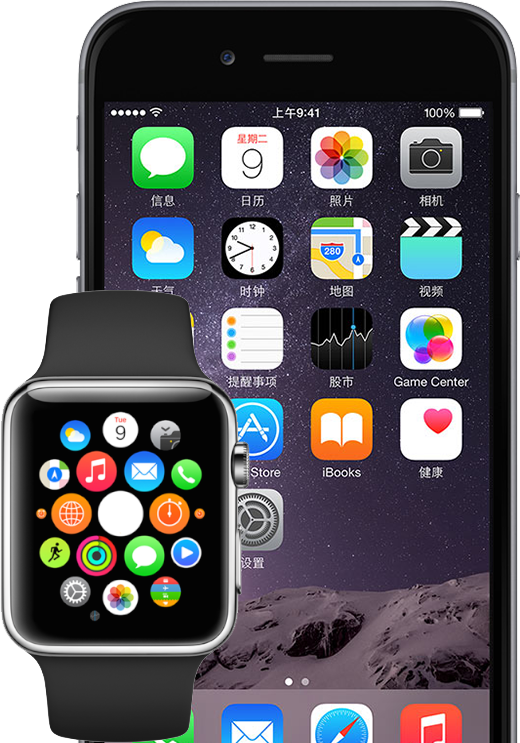
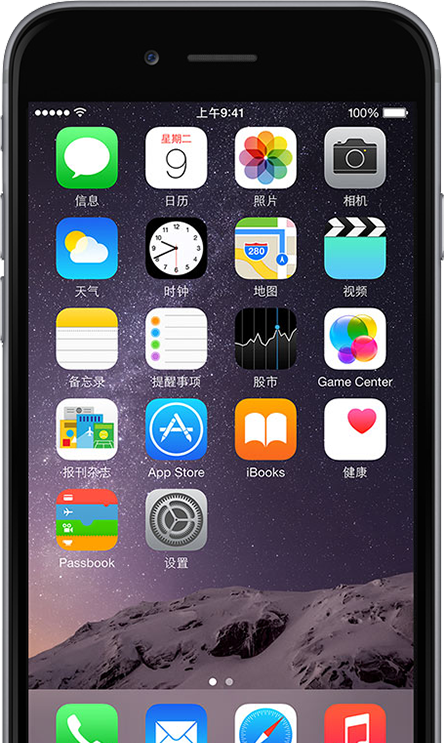
Adding the watchOS

diff --git a/public/css/main.less b/public/css/main.less
@@ -94,7 +94,6 @@ body {
     }
 }
 #tp_ios {
-    margin: 0 -30px;
     .icons-row .icon-row {
         vertical-align: middle;
         height: 56px;
@@ -131,6 +130,13 @@ body {
             -webkit-border-radius: 13px;
             -moz-border-radius: 13px;
             border-radius: 13px;
+        }
+        &.watch {
+            width: 45px;
+            height: 45px;
+            -webkit-border-radius: 22.5px;
+            -moz-border-radius: 22.5px;
+            border-radius: 22.5px;
         }
     }
 }

diff --git a/public/css/main.css b/public/css/main.css
@@ -88,9 +88,6 @@ body {
 #tp_android .icons-row {
   margin-bottom: 15px;
 }
-#tp_ios {
-  margin: 0 -30px;
-}
 #tp_ios .icons-row .icon-row {
   vertical-align: middle;
   height: 56px;
@@ -128,6 +125,13 @@ body {
   -webkit-border-radius: 13px;
   -moz-border-radius: 13px;
   border-radius: 13px;
+}
+#tp_ios img.watch {
+  width: 45px;
+  height: 45px;
+  -webkit-border-radius: 22.5px;
+  -moz-border-radius: 22.5px;
+  border-radius: 22.5px;
 }
 footer {
   text-align: center;

diff --git a/app/views/icon/detail_watch.blade.php b/app/views/icon/detail_watch.blade.php
@@ -1,0 +1,189 @@
+<?php
+$basePath = $design->folder . '/' . $design->id . '/watchos/AppIcon.appiconset/';
+?>
+
+<div role="tabpanel" class="tab-pane fade in" id="tp_watch">
+    <div class="row">
+        <div class="col-md-6" style="background: url('/img/watch.png') no-repeat; height:743px; position: relative">
+            <div style="position: absolute; left:98px; top:491px;">
+                <img src="/files/<?php echo $basePath . 'icon-29@2x.png' ?>" alt="" class="watch"/>
+            </div>
+        </div>
+        <div class="col-md-6 icons-col">
+            <div class="row icons-row">
+                <div class="col-sm-4">
+                    <div class="row icon-row">
+                        <div class="col-xs-6">
+                            <img src="/files/<?php echo $basePath . 'icon-29.png' ?>" alt="" class="x1"/>
+                        </div>
+                        <div class="col-xs-6">
+                            <img src="/files/<?php echo $basePath . 'icon-29@2x.png' ?>" alt="" class="x3"/>
+                        </div>
+                    </div>
+                    <div class="row">
+                        <div class="col-xs-6">1x</div>
+                        <div class="col-xs-6">2x</div>
+                    </div>
+                    <div class="description">
+                        iPhone<br/>
+                        Spotlight - iOS 6,6<br/>
+                        Settings - iOS 5-8<br/>
+                        29pt
+                    </div>
+                </div>
+                <div class="col-sm-4">
+                    <div class="row icon-row">
+                        <div class="col-xs-12">
+                            <img src="/files/<?php echo $basePath . 'icon-40@2x.png' ?>" alt="" class="x3"/>
+                        </div>
+                    </div>
+                    <div class="row">
+                        <div class="col-xs-12">2x</div>
+                    </div>
+                    <div class="description">
+                        iPhone Spotlight<br/>
+                        iOS 7, 8<br/>
+                        40pt
+                    </div>
+                </div>
+                <div class="col-sm-4">
+                    <div class="row icon-row">
+                        <div class="col-xs-6">
+                            <img src="/files/<?php echo $basePath . 'icon-57.png' ?>" alt="" class="x3" />
+                        </div>
+                        <div class="col-xs-6">
+                            <img src="/files/<?php echo $basePath . 'icon-57@2x.png' ?>" alt="" class="x3" />
+                        </div>
+                    </div>
+                    <div class="row">
+                        <div class="col-xs-6">1x</div>
+                        <div class="col-xs-6">2x</div>
+                    </div>
+                    <div class="description">
+                        iPhone App<br/>
+                        iOS 5,6<br/>
+                        57pt
+                    </div>
+                </div>
+            </div>
+            <div class="row icons-row">
+                <div class="col-sm-4">
+                    <div class="row icon-row">
+                        <div class="col-xs-6">
+                            <img src="/files/<?php echo $basePath . 'icon-60@2x.png' ?>" alt="" class="x3" />
+                        </div>
+                        <div class="col-xs-6">
+                            <img src="/files/<?php echo $basePath . 'icon-60@3x.png' ?>" alt="" class="x3" />
+                        </div>
+                    </div>
+                    <div class="row">
+                        <div class="col-xs-6">2x</div>
+                        <div class="col-xs-6">3x</div>
+                    </div>
+                    <div class="description">
+                        iPhone App<br/>
+                        iOS 7,8<br/>
+                        60pt
+                    </div>
+                </div>
+                <div class="col-sm-4">
+                    <div class="row icon-row">
+                        <div class="col-xs-6">
+                            <img src="/files/<?php echo $basePath . 'icon-29.png' ?>" alt="" class="x1"/>
+                        </div>
+                        <div class="col-xs-6">
+                            <img src="/files/<?php echo $basePath . 'icon-29@2x.png' ?>" alt="" class="x3"/>
+                        </div>
+                    </div>
+                    <div class="row">
+                        <div class="col-xs-6">1x</div>
+                        <div class="col-xs-6">2x</div>
+                    </div>
+                    <div class="description">
+                        iPad Settings<br/>
+                        iOS 5, 8<br/>
+                        29pt
+                    </div>
+                </div>
+                <div class="col-sm-4">
+                    <div class="row icon-row">
+                        <div class="col-xs-6">
+                            <img src="/files/<?php echo $basePath . 'icon-40.png' ?>" alt="" class="x2" />
+                        </div>
+                        <div class="col-xs-6">
+                            <img src="/files/<?php echo $basePath . 'icon-40@2x.png' ?>" alt="" class="x3" />
+                        </div>
+                    </div>
+                    <div class="row">
+                        <div class="col-xs-6">1x</div>
+                        <div class="col-xs-6">2x</div>
+                    </div>
+                    <div class="description">
+                        iPad Spotlight<br/>
+                        iOS 7,8<br/>
+                        40pt
+                    </div>
+                </div>
+            </div>
+            <div class="row icons-row">
+                <div class="col-sm-4">
+                    <div class="row icon-row">
+                        <div class="col-xs-6">
+                            <img src="/files/<?php echo $basePath . 'icon-50.png' ?>" alt="" class="x3" />
+                        </div>
+                        <div class="col-xs-6">
+                            <img src="/files/<?php echo $basePath . 'icon-50@2x.png' ?>" alt="" class="x3" />
+                        </div>
+                    </div>
+                    <div class="row">
+                        <div class="col-xs-6">1x</div>
+                        <div class="col-xs-6">2x</div>
+                    </div>
+                    <div class="description">
+                        iPad Spotlight<br/>
+                        iOS 5,6<br/>
+                        50pt
+                    </div>
+                </div>
+                <div class="col-sm-4">
+                    <div class="row icon-row">
+                        <div class="col-xs-6">
+                            <img src="/files/<?php echo $basePath . 'icon-72.png' ?>" alt="" class="x3"/>
+                        </div>
+                        <div class="col-xs-6">
+                            <img src="/files/<?php echo $basePath . 'icon-72@2x.png' ?>" alt="" class="x3"/>
+                        </div>
+                    </div>
+                    <div class="row">
+                        <div class="col-xs-6">1x</div>
+                        <div class="col-xs-6">2x</div>
+                    </div>
+                    <div class="description">
+                        iPad Add<br/>
+                        iOS 5, 8<br/>
+                        72pt
+                    </div>
+                </div>
+                <div class="col-sm-4">
+                    <div class="row icon-row">
+                        <div class="col-xs-6">
+                            <img src="/files/<?php echo $basePath . 'icon-76.png' ?>" alt="" class="x3" />
+                        </div>
+                        <div class="col-xs-6">
+                            <img src="/files/<?php echo $basePath . 'icon-76@2x.png' ?>" alt="" class="x3" />
+                        </div>
+                    </div>
+                    <div class="row">
+                        <div class="col-xs-6">1x</div>
+                        <div class="col-xs-6">2x</div>
+                    </div>
+                    <div class="description">
+                        iPad App<br/>
+                        iOS 7,8<br/>
+                        76pt
+                    </div>
+                </div>
+            </div>
+        </div>
+    </div>
+</div>

diff --git a/app/views/icon/detail.blade.php b/app/views/icon/detail.blade.php
@@ -46,6 +46,7 @@
 
     <ul class="nav nav-tabs nav-justified" role="tablist" id="tp_tabs">
         <li role="presentation" class="active"><a href="#tp_ios" aria-controls="tp_ios" role="tab" data-toggle="tab">iOS</a></li>
+        <li role="presentation"><a href="#tp_watch" aria-controls="tp_watch" role="tab" data-toggle="tab">watchOS</a></li>
         <li role="presentation"><a href="#tp_android" aria-controls="tp_android" role="tab" data-toggle="tab">Android</a></li>
         @if (isset($withExtra))
         <li role="presentation"><a href="#tp_winphone" aria-controls="tp_winphone" role="tab" data-toggle="tab">Windows Phone</a></li>
@@ -56,6 +57,8 @@
     <div class="tab-content" id="tp_contents">
 
         @include('icon.detail_ios')
+
+        @include('icon.detail_watch')
 
         @include('icon.detail_android')
 
